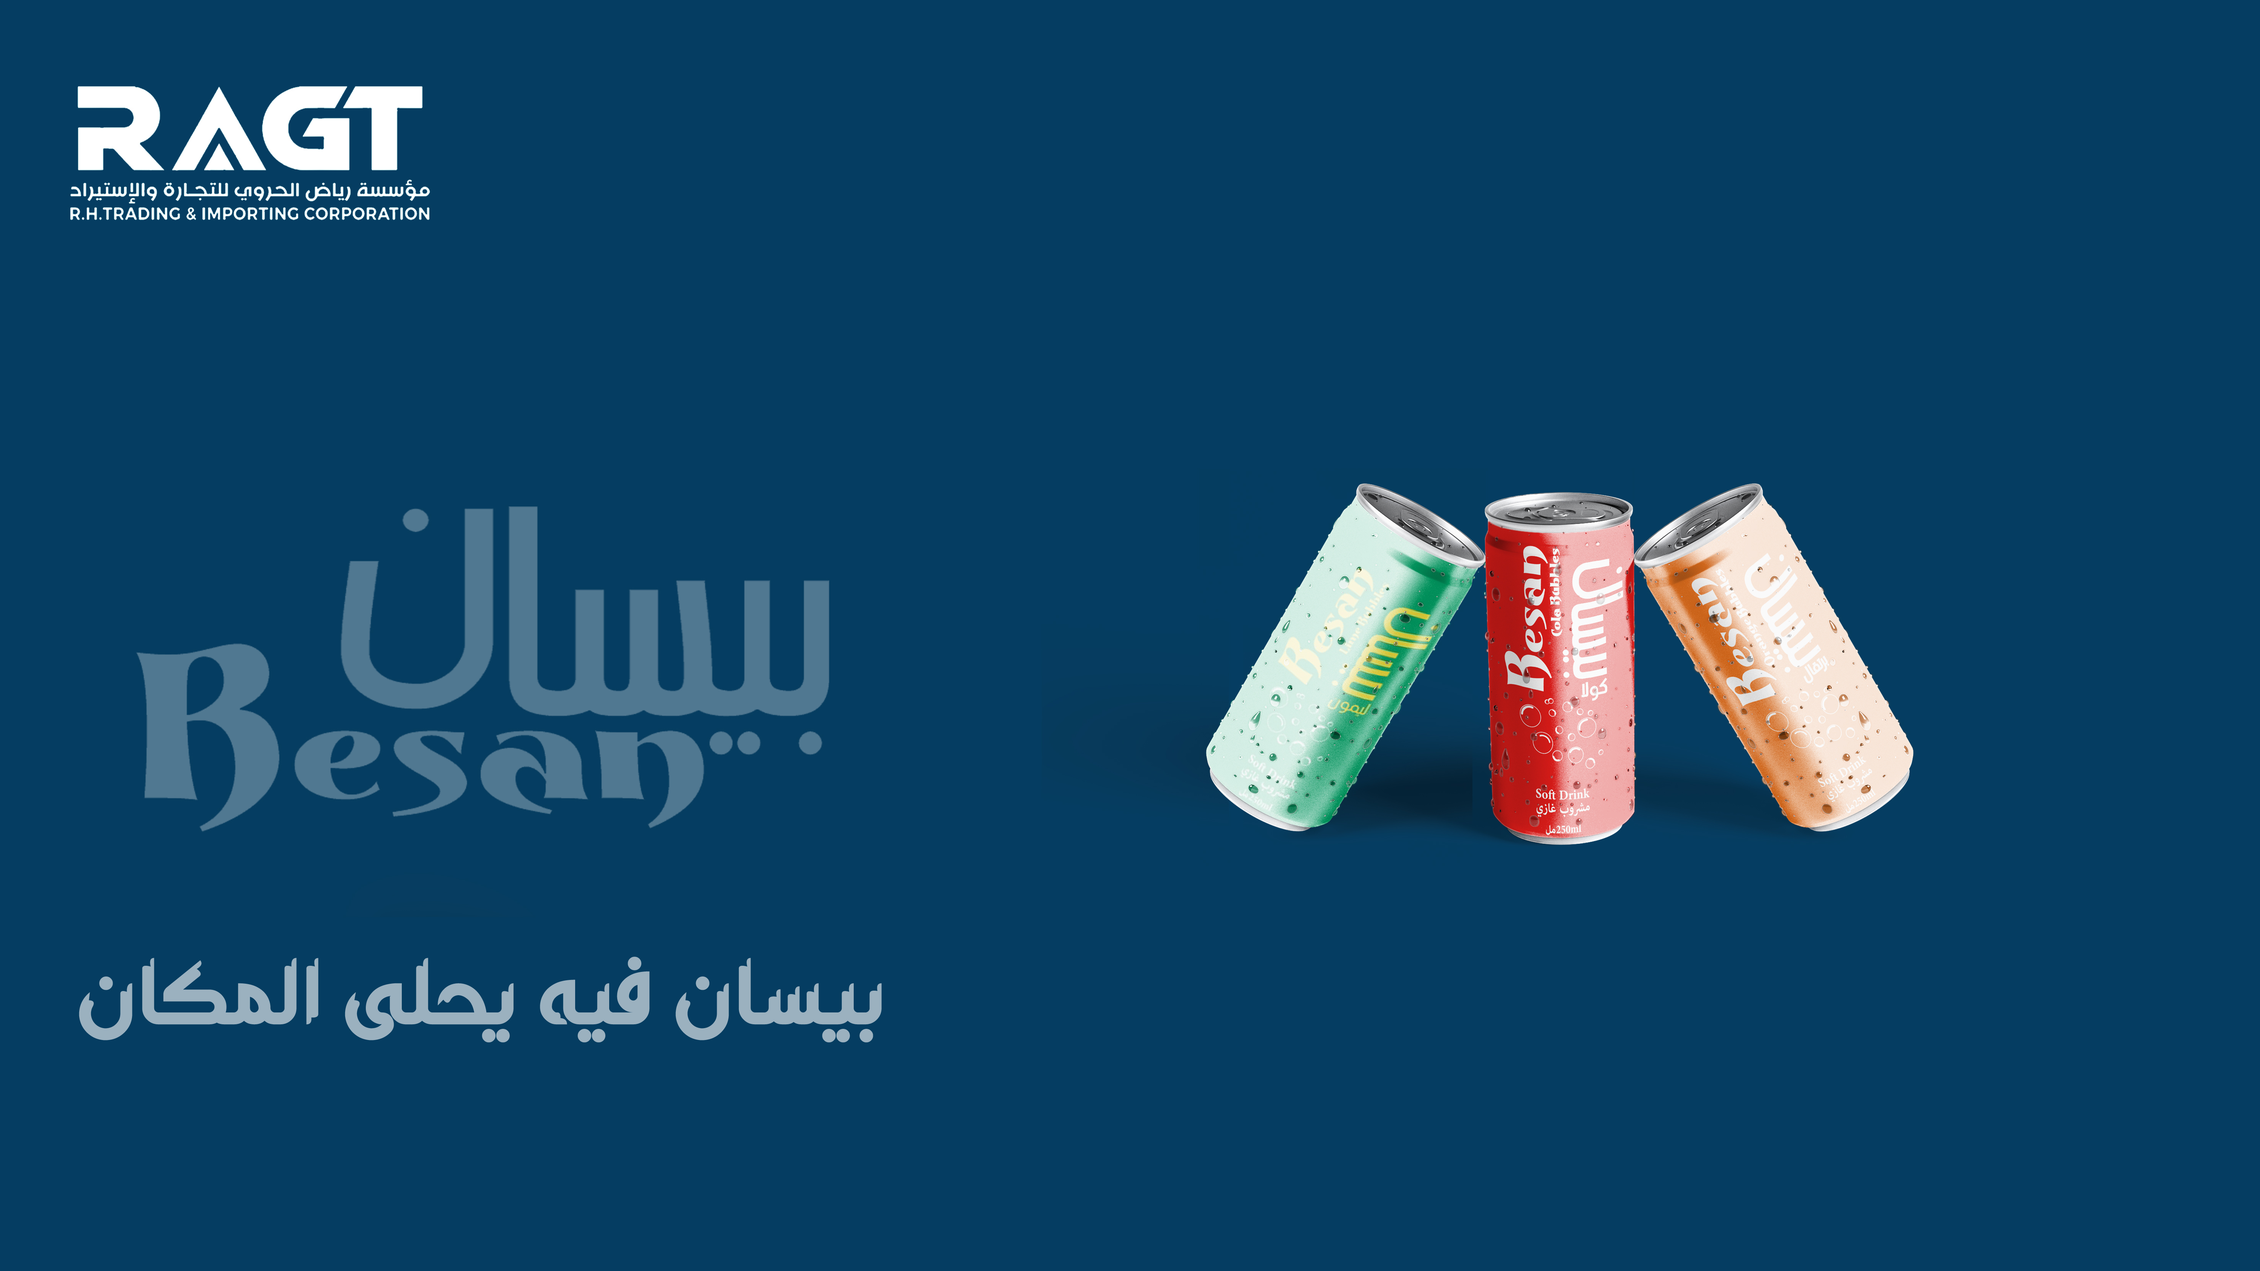
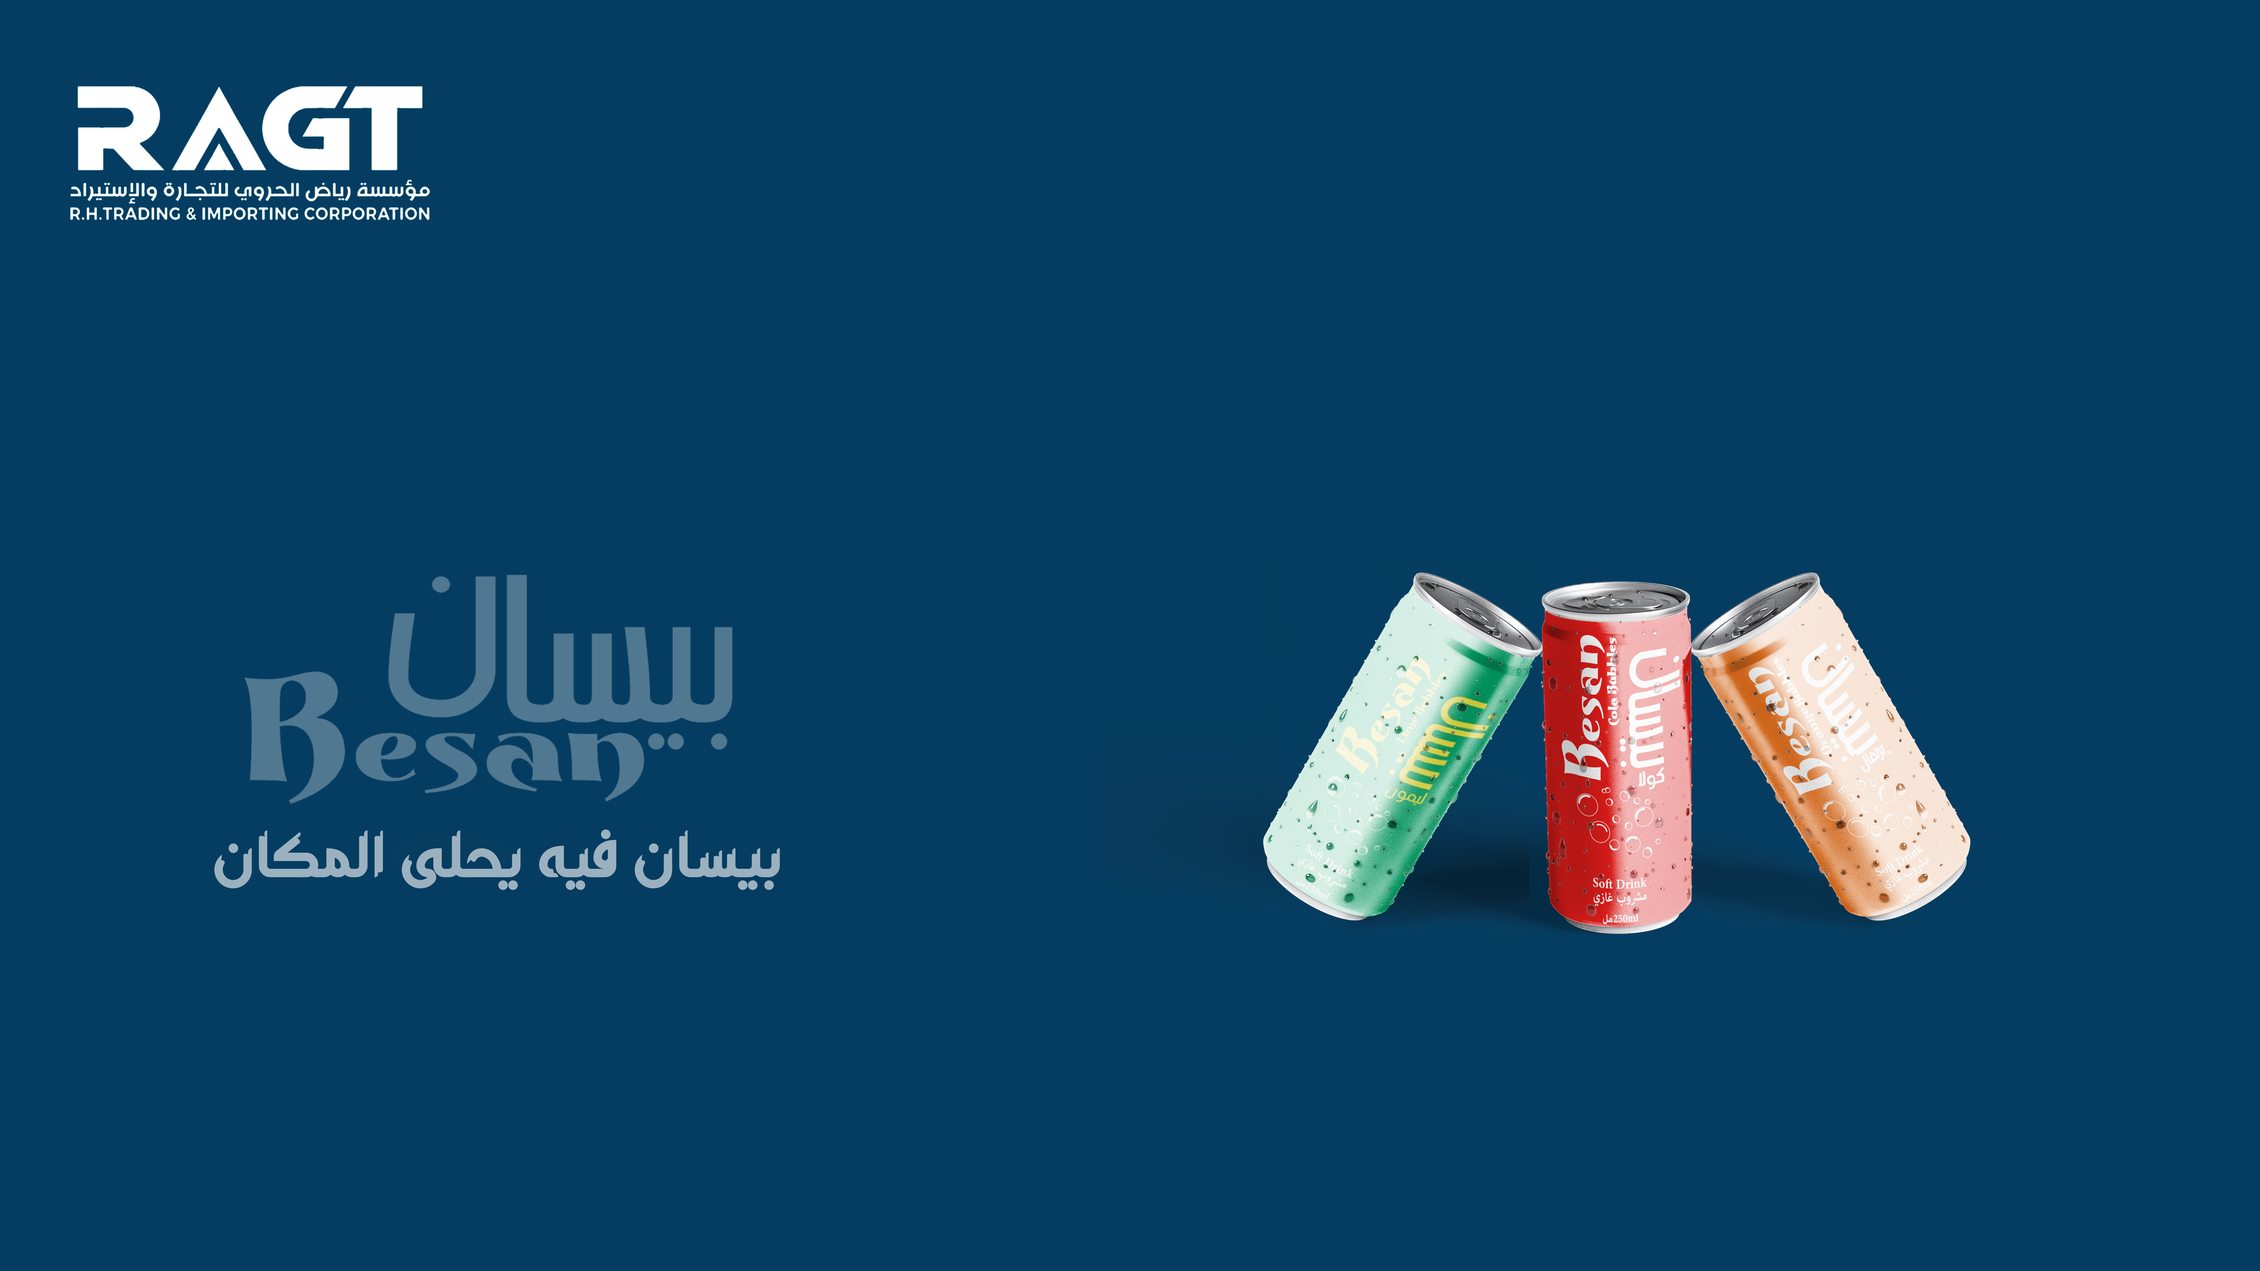
تم تحديث الملفات وتحسين

Changed region(s): [[0.5296, 0.372, 0.8723, 0.7439], [0.0623, 0.4029, 0.3739, 0.7129], [0.0312, 0.7439, 0.405, 0.8369]]

diff --git a/index.html b/index.html
@@ -88,7 +88,7 @@
         </div>
 
         <div class="carousel-item h-100" data-bs-interval="5000">
-          <img src="img/45.JPG" class="d-block w-100 h-100 object-fit-cover" alt="نموذج ثلاثي الأبعاد 2">
+          <img src="img/111.JPG" class="d-block w-100 h-100 object-fit-cover" alt="نموذج ثلاثي الأبعاد 2">
           <div class="carousel-caption fade-in-text">
             <h2>نجاحك يبدأ بمنتجاتنا</h2>
             <p>معنا... العالم بين يديك!</p>
@@ -106,7 +106,7 @@
 
         <!-- الصورة الثالثة -->
         <div class="carousel-item h-100" data-bs-interval="5000">
-          <img src="img/999.JPG" class="d-block w-100 h-100 object-fit-cover" alt="نموذج ثلاثي الأبعاد 2">
+          <img src="img/200.JPG" class="d-block w-100 h-100 object-fit-cover" alt="نموذج ثلاثي الأبعاد 2">
           <div class="carousel-caption fade-in-text">
             <h2>نجاحك يبدأ بمنتجاتنا</h2>
             <p>معنا... العالم بين يديك!</p>
@@ -328,37 +328,35 @@
         </div>
         <div class="col-md-6 col-lg-4 text-center">
           <div class="contact text-center">
-            <h5 class="text-light mb-4">تواصل معنا</h5>
-            <p class="lh-lg mb-4">ابقَ على تواصل معنا عبر البريد الإلكتروني أو الهاتف. نحن بانتظار رسائلكم!</p>
-            <a class="btn btn-warning text-dark fw-bold w-100 rounded-pill mb-4"
-              href="mailto:ragt@gmail.com">info@ragtco.com</a>
-
-            <!-- الأيقونات -->
-            <ul class="d-flex list-unstyled gap-3 justify-content-center">
-              <li>
-                <a class="text-dark text-decoration-none" href="#">
-                  <i class="fab fa-facebook fa-2x"></i> <!-- حجم الأيقونة: fa-2x -->
-                </a>
-              </li>
-              <li>
-                <a class="text-dark text-decoration-none" href="#">
-                  <i class="fab fa-instagram fa-2x"></i>
-                </a>
-              </li>
-              <li>
-                <a class="text-dark text-decoration-none"
-                  href="https://www.linkedin.com/company/ragtco/posts/?feedView=all">
-                  <i class="fab fa-linkedin fa-2x"></i>
-                </a>
-              </li>
-              <li>
-                <a class="text-dark text-decoration-none" href="#">
-                  <i class="fab fa-youtube fa-2x"></i>
-                </a>
-              </li>
-            </ul>
+              <h5 class="text-light mb-4">تواصل معنا</h5>
+              <p class="lh-lg mb-4">ابقَ على تواصل معنا عبر البريد الإلكتروني أو الهاتف. نحن بانتظار رسائلكم!</p>
+              <a class="btn btn-warning text-dark fw-bold w-100 rounded-pill mb-4" href="mailto:ragt@gmail.com">info@ragtco.com</a>
+      
+              <!-- الأيقونات -->
+              <ul class="d-flex list-unstyled gap-3 justify-content-center">
+                  <li>
+                      <a class="text-light text-decoration-none" href="#">
+                          <i class="fab fa-facebook fa-2x"></i> <!-- حجم الأيقونة: fa-2x -->
+                      </a>
+                  </li>
+                  <li>
+                      <a class="text-light text-decoration-none" href="#">
+                          <i class="fab fa-instagram fa-2x"></i>
+                      </a>
+                  </li>
+                  <li>
+                      <a class="text-light text-decoration-none" href="https://www.linkedin.com/company/ragtco/posts/?feedView=all">
+                          <i class="fab fa-linkedin fa-2x"></i>
+                      </a>
+                  </li>
+                  <li>
+                      <a class="text-light text-decoration-none" href="#">
+                          <i class="fab fa-youtube fa-2x"></i>
+                      </a>
+                  </li>
+              </ul>
           </div>
-        </div>
+      </div>
       </div>
     </div>
   </div>

diff --git a/services.html b/services.html
@@ -252,35 +252,35 @@
         </div>
         <div class="col-md-6 col-lg-4 text-center">
           <div class="contact text-center">
-            <h5 class="text-light mb-4">تواصل معنا</h5>
-            <p class="lh-lg mb-4">ابقَ على تواصل معنا عبر البريد الإلكتروني أو الهاتف. نحن بانتظار رسائلكم!</p>
-            <a class="btn btn-warning text-dark fw-bold w-100 rounded-pill mb-4" href="mailto:ragt@gmail.com">info@ragtco.com</a>
-            
-            <!-- الأيقونات -->
-            <ul class="d-flex list-unstyled gap-3 justify-content-center">
-                <li>
-                    <a class="text-dark text-decoration-none" href="#">
-                        <i class="fab fa-facebook fa-2x"></i> <!-- حجم الأيقونة: fa-2x -->
-                    </a>
-                </li>
-                <li>
-                    <a class="text-dark text-decoration-none" href="#">
-                        <i class="fab fa-instagram fa-2x"></i>
-                    </a>
-                </li>
-                <li>
-                    <a class="text-dark text-decoration-none" href="https://www.linkedin.com/company/ragtco/posts/?feedView=all">
-                        <i class="fab fa-linkedin fa-2x"></i>
-                    </a>
-                </li>
-                <li>
-                    <a class="text-dark text-decoration-none" href="#">
-                        <i class="fab fa-youtube fa-2x"></i>
-                    </a>
-                </li>
-            </ul>
-        </div>
-        </div>
+              <h5 class="text-light mb-4">تواصل معنا</h5>
+              <p class="lh-lg mb-4">ابقَ على تواصل معنا عبر البريد الإلكتروني أو الهاتف. نحن بانتظار رسائلكم!</p>
+              <a class="btn btn-warning text-dark fw-bold w-100 rounded-pill mb-4" href="mailto:ragt@gmail.com">info@ragtco.com</a>
+      
+              <!-- الأيقونات -->
+              <ul class="d-flex list-unstyled gap-3 justify-content-center">
+                  <li>
+                      <a class="text-light text-decoration-none" href="#">
+                          <i class="fab fa-facebook fa-2x"></i> <!-- حجم الأيقونة: fa-2x -->
+                      </a>
+                  </li>
+                  <li>
+                      <a class="text-light text-decoration-none" href="#">
+                          <i class="fab fa-instagram fa-2x"></i>
+                      </a>
+                  </li>
+                  <li>
+                      <a class="text-light text-decoration-none" href="https://www.linkedin.com/company/ragtco/posts/?feedView=all">
+                          <i class="fab fa-linkedin fa-2x"></i>
+                      </a>
+                  </li>
+                  <li>
+                      <a class="text-light text-decoration-none" href="#">
+                          <i class="fab fa-youtube fa-2x"></i>
+                      </a>
+                  </li>
+              </ul>
+          </div>
+      </div>
       </div>
     </div>
   </div>

diff --git a/Products.html b/Products.html
@@ -250,37 +250,35 @@
         </div>
         <div class="col-md-6 col-lg-4 text-center">
           <div class="contact text-center">
-            <h5 class="text-light mb-4">تواصل معنا</h5>
-            <p class="lh-lg mb-4">ابقَ على تواصل معنا عبر البريد الإلكتروني أو الهاتف. نحن بانتظار رسائلكم!</p>
-            <a class="btn btn-warning text-dark fw-bold w-100 rounded-pill mb-4"
-              href="mailto:ragt@gmail.com">info@ragtco.com</a>
-
-            <!-- الأيقونات -->
-            <ul class="d-flex list-unstyled gap-3 justify-content-center">
-              <li>
-                <a class="text-dark text-decoration-none" href="#">
-                  <i class="fab fa-facebook fa-2x"></i> <!-- حجم الأيقونة: fa-2x -->
-                </a>
-              </li>
-              <li>
-                <a class="text-dark text-decoration-none" href="#">
-                  <i class="fab fa-instagram fa-2x"></i>
-                </a>
-              </li>
-              <li>
-                <a class="text-dark text-decoration-none"
-                  href="https://www.linkedin.com/company/ragtco/posts/?feedView=all">
-                  <i class="fab fa-linkedin fa-2x"></i>
-                </a>
-              </li>
-              <li>
-                <a class="text-dark text-decoration-none" href="#">
-                  <i class="fab fa-youtube fa-2x"></i>
-                </a>
-              </li>
-            </ul>
+              <h5 class="text-light mb-4">تواصل معنا</h5>
+              <p class="lh-lg mb-4">ابقَ على تواصل معنا عبر البريد الإلكتروني أو الهاتف. نحن بانتظار رسائلكم!</p>
+              <a class="btn btn-warning text-dark fw-bold w-100 rounded-pill mb-4" href="mailto:ragt@gmail.com">info@ragtco.com</a>
+      
+              <!-- الأيقونات -->
+              <ul class="d-flex list-unstyled gap-3 justify-content-center">
+                  <li>
+                      <a class="text-light text-decoration-none" href="#">
+                          <i class="fab fa-facebook fa-2x"></i> <!-- حجم الأيقونة: fa-2x -->
+                      </a>
+                  </li>
+                  <li>
+                      <a class="text-light text-decoration-none" href="#">
+                          <i class="fab fa-instagram fa-2x"></i>
+                      </a>
+                  </li>
+                  <li>
+                      <a class="text-light text-decoration-none" href="https://www.linkedin.com/company/ragtco/posts/?feedView=all">
+                          <i class="fab fa-linkedin fa-2x"></i>
+                      </a>
+                  </li>
+                  <li>
+                      <a class="text-light text-decoration-none" href="#">
+                          <i class="fab fa-youtube fa-2x"></i>
+                      </a>
+                  </li>
+              </ul>
           </div>
-        </div>
+      </div>
       </div>
     </div>
   </div>

diff --git a/about.html b/about.html
@@ -327,26 +327,26 @@
                         <h5 class="text-light mb-4">تواصل معنا</h5>
                         <p class="lh-lg mb-4">ابقَ على تواصل معنا عبر البريد الإلكتروني أو الهاتف. نحن بانتظار رسائلكم!</p>
                         <a class="btn btn-warning text-dark fw-bold w-100 rounded-pill mb-4" href="mailto:ragt@gmail.com">info@ragtco.com</a>
-                        
+                
                         <!-- الأيقونات -->
                         <ul class="d-flex list-unstyled gap-3 justify-content-center">
                             <li>
-                                <a class="text-dark text-decoration-none" href="#">
+                                <a class="text-light text-decoration-none" href="#">
                                     <i class="fab fa-facebook fa-2x"></i> <!-- حجم الأيقونة: fa-2x -->
                                 </a>
                             </li>
                             <li>
-                                <a class="text-dark text-decoration-none" href="#">
+                                <a class="text-light text-decoration-none" href="#">
                                     <i class="fab fa-instagram fa-2x"></i>
                                 </a>
                             </li>
                             <li>
-                                <a class="text-dark text-decoration-none" href="https://www.linkedin.com/company/ragtco/posts/?feedView=all">
+                                <a class="text-light text-decoration-none" href="https://www.linkedin.com/company/ragtco/posts/?feedView=all">
                                     <i class="fab fa-linkedin fa-2x"></i>
                                 </a>
                             </li>
                             <li>
-                                <a class="text-dark text-decoration-none" href="#">
+                                <a class="text-light text-decoration-none" href="#">
                                     <i class="fab fa-youtube fa-2x"></i>
                                 </a>
                             </li>

diff --git a/contact.html b/contact.html
@@ -278,32 +278,32 @@
                 <h5 class="text-light mb-4">تواصل معنا</h5>
                 <p class="lh-lg mb-4">ابقَ على تواصل معنا عبر البريد الإلكتروني أو الهاتف. نحن بانتظار رسائلكم!</p>
                 <a class="btn btn-warning text-dark fw-bold w-100 rounded-pill mb-4" href="mailto:ragt@gmail.com">info@ragtco.com</a>
-                
+        
                 <!-- الأيقونات -->
                 <ul class="d-flex list-unstyled gap-3 justify-content-center">
                     <li>
-                        <a class="text-dark text-decoration-none" href="#">
+                        <a class="text-light text-decoration-none" href="#">
                             <i class="fab fa-facebook fa-2x"></i> <!-- حجم الأيقونة: fa-2x -->
                         </a>
                     </li>
                     <li>
-                        <a class="text-dark text-decoration-none" href="#">
+                        <a class="text-light text-decoration-none" href="#">
                             <i class="fab fa-instagram fa-2x"></i>
                         </a>
                     </li>
                     <li>
-                        <a class="text-dark text-decoration-none" href="https://www.linkedin.com/company/ragtco/posts/?feedView=all">
+                        <a class="text-light text-decoration-none" href="https://www.linkedin.com/company/ragtco/posts/?feedView=all">
                             <i class="fab fa-linkedin fa-2x"></i>
                         </a>
                     </li>
                     <li>
-                        <a class="text-dark text-decoration-none" href="#">
+                        <a class="text-light text-decoration-none" href="#">
                             <i class="fab fa-youtube fa-2x"></i>
                         </a>
                     </li>
                 </ul>
             </div>
-          </div>
+        </div>
         </div>
       </div>
     </div>

diff --git a/servother4.html b/servother4.html
@@ -162,7 +162,7 @@
                   <li><a href="index.html" class="text-decoration-none text-white-50 hover-link" aria-label="Go to Home Page">الرئيسية</a></li>
                   <li><a href="about.html" class="text-decoration-none text-white-50 hover-link" aria-label="Learn more about RAGT">من نحن</a></li>
                   <li><a href="services.html" class="text-decoration-none text-white-50 hover-link" aria-label="Explore our Services">خدماتنا</a></li>
-                  <li><a href="products.html" class="text-decoration-none text-white-50 hover-link" aria-label="Discover our Products">منتجاتنا</a></li>
+                  <li><a href="Products.html" class="text-decoration-none text-white-50 hover-link" aria-label="Discover our Products">منتجاتنا</a></li>
                   <li><a href="contact.html" class="text-decoration-none text-white-50 hover-link" aria-label="Contact Us">تواصل معنا</a></li>
                 </ul>
               </div>
